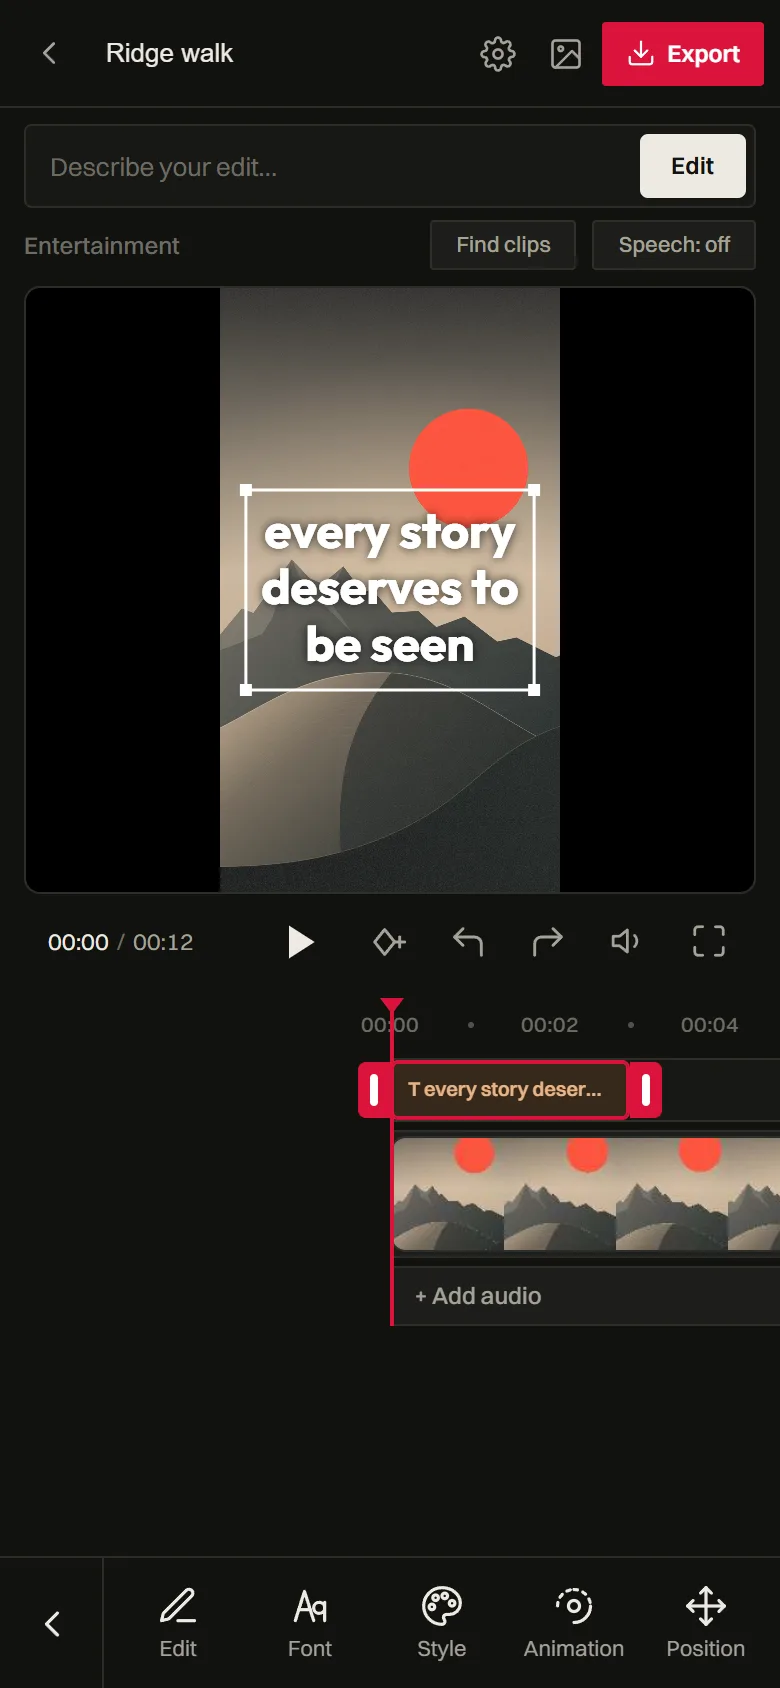
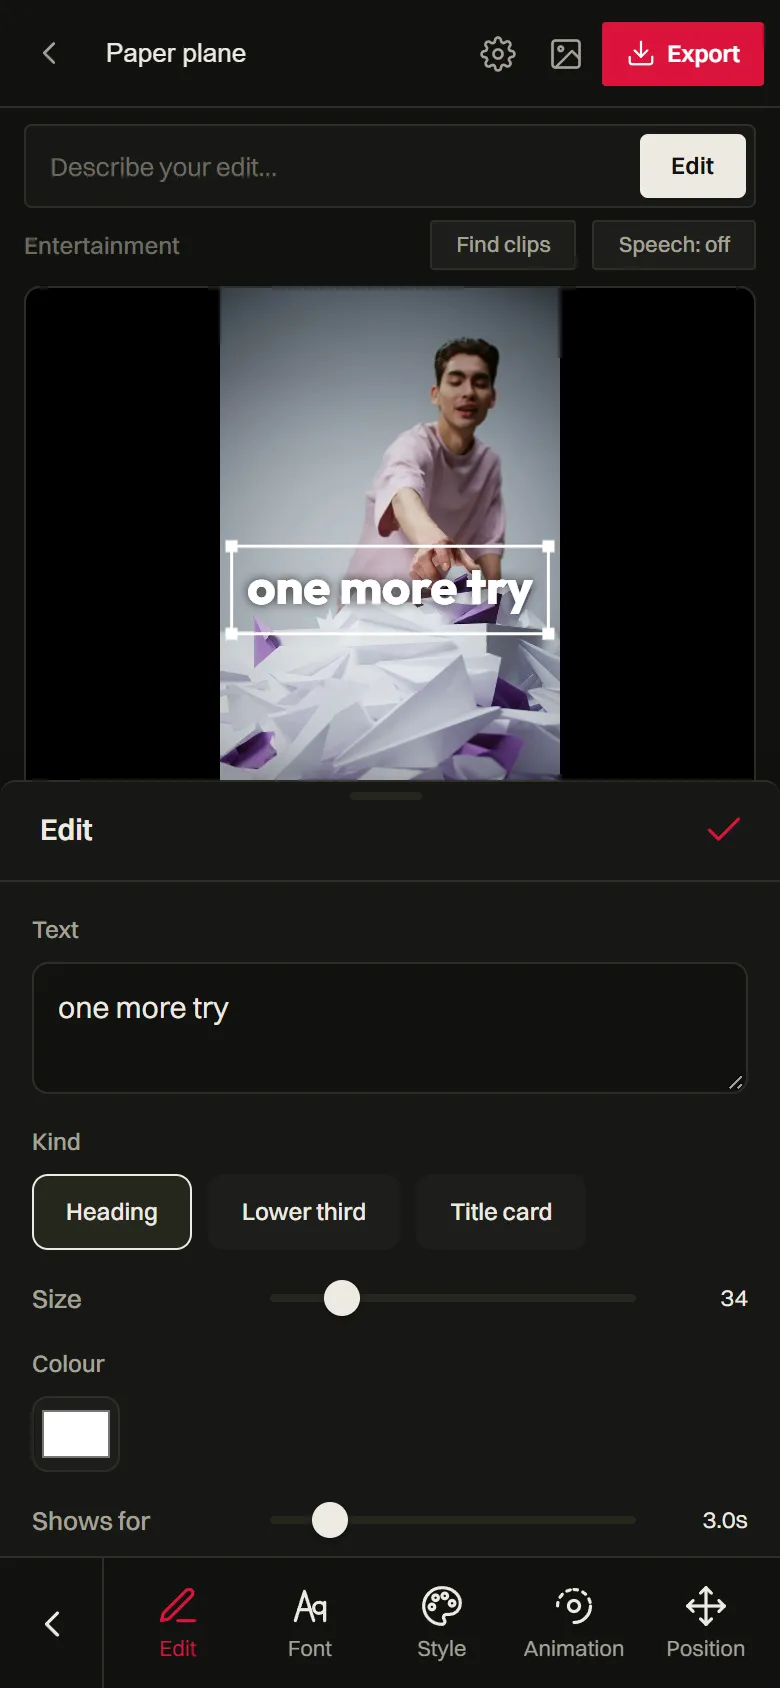
vClyps 0.70.1: editor screenshot with real footage

diff --git a/version.js b/version.js
@@ -60,9 +60,9 @@
 (function (global) {
   "use strict";
 
-  var VERSION = "0.70.0";
+  var VERSION = "0.70.1";
   var RELEASED = "2026-11-01";
-  var NOTES = "New: the home page is back to the design with the wall of videos streaming down the side, now with real footage: 15 everyday shorts (skating, cooking, a puppy, surfing, a gig, painting and more) that play while they are on screen, a show whose timeline is made of one real shoot (folding a paper plane, a miss, one more try, made it), and a finished short that plays in the phone with captions in time with its cuts. All free stock, edited for one look: graded, steadied, cropped to 9:16 and looped without a seam. Removed: Really, and the line about where your footage stays. 0.69.1: Fix: the home page no longer has the privacy statement, and the question is now Is it free? (no really). 0.69.0: New: the home page, designed by our design lead and rebuilt to that design. A calm pale blue page with one clear offer (Free. You shoot. vClyps edits.) and two buttons, then a show you scroll through: the pieces of one shoot (Fold, Miss, Again, Made it, the pauses, an um and a like) land on a timeline, the pauses and filler words are cut, the playhead finds the rhythm, the edit becomes one short, and the short joins a field of stories. Then what you keep (every cut is yours, 1080p at up to 60 fps, no watermark), where your footage stays, four questions and one last button. The examples are clearly marked type-only samples until real footage is shot. With reduced motion it is one finished picture. 0.68.0: New: the home page is an experience. The offer comes first, as on Prime Video: what vClyps does, Free in bold, and big buttons (Choose your footage, Watch it edit first), beside a moving wall of finished shorts. Then, as you scroll, the edit plays out: raw clips, spoken words, a voice and a song fly onto a timeline, the playhead runs, the dull parts and filler words drop out, the timeline folds into a phone playing the finished short, and that becomes a wall of shorts. With reduced motion it is one still picture. 0.67.0: New: the home page, rebuilt from research into the best-converting video tools. It is light, and you can start right from it: Choose your footage (or drop videos on it) opens the editor with them already on the timeline; if a project is open, they are added to it and nothing is lost. It answers the common questions (is it free, where your footage goes, will the edit look robotic, what you can edit, phones) and says plainly that your footage stays on your device. 0.66.1: Fix: on a computer the timeline no longer leaves its left half empty. As in CapCut's desktop editor it starts at the left edge and the playhead moves along it: click the ruler or any empty part of the timeline to move the playhead there, the scroll wheel looks along the edit without moving it, zooming keeps it where it is, and while it plays the view turns the page. Phones and tablets keep the playhead in the middle. 0.66.0: New: a new home page. It says what vClyps does in one line, shows the real editor (a screenshot, not an illustration), then how it works, what is in the editor and the privacy line, with one Start editing button. The 3D film ribbon, scroll animations, film grain, the button that followed the pointer and the shutter between screens are gone, so the page opens instantly and is lighter to download. 0.65.0: New: 59 sound effects (was 20), every one a real recording released free for any use (CC0): boing, bonk, slide whistle, punch, slap, glass break, explosion, thunder, heartbeat, ticking, alarm, phone buzz, message ping, typing, mouse click, typewriter, door knock and creak, footsteps, crowd cheer, boo, aww and ooh, swipe, bubbles, splash, wind, rain, birdsong, rewind, glitch, level up, success, error, dog bark, ta-da, car horn, bell and a soft swoosh. The sound sheet has CapCut's group tabs (Transitions, Impacts, Cartoon, Crowd, Game and phone, Everyday, Nature), and a sound downloads only when it is first used. 0.64.0: New: overlays stack in layers, as in CapCut: several videos and photos can be on screen at once, each on its own lane in the timeline (Arrange has Layer). And Collage, after Overlay: pick a layout (two side by side, two stacked, one big and two small, 2 x 2, diagonal), choose 2 to 4 videos or photos, set Border and Rounded, and each one lands in its cell as an ordinary overlay you can still adjust. 0.63.0: New: British voices for Text to speech: Emma, Isabella, George and Fable, read with British pronunciation (no rolled r after vowels, BATH words, schedule, tomato, aluminium, one hundred and five) and British spellings (colour, centre). Pounds are read as pounds (£3.50 is three pounds fifty) for every voice. 0.62.0: New: Remove background, Tap to choose, as CapCut: tap any object (a dog, a car, a product), not only a person, and add or erase points until it is right; vClyps finds it through the clip once (about 10 seconds for each second of video on a computer with good graphics, longer without) and keeps only that thing. Works on clips and overlays, the same in the preview and the export. 0.61.0: New: Smooth slow motion, in Speed when a clip is slowed down, as CapCut's Smooth slow-mo: instead of showing each frame twice, vClyps makes new frames in between (blended from the real ones around each moment) and stretches the sound without changing its pitch, so slow motion glides. Made once on your device; Off brings the original back. 0.60.0: New: many more text animations (67 in, 54 out, 41 loop: swooshes with motion blur, mask reveals, typewriters, letter-by-letter grow, flip, swing and bounce, neon flicker, spiral, slam and more) and 80 text templates (was 40): chapter titles, editorial lower thirds, subscribe and follow cards, quote cards, step and stat cards, prices, offers, promo codes and coming soon. Every template now fits inside the safe area of a 9:16 video (30 older ones were too wide and are now resized). 0.59.0: New: Auto reframe, beside Stabilize in a video clip's tools as in CapCut. Landscape video in a 9:16 (or square) edit no longer sits still: the frame follows the person's face, or the action when there is no face, with a calm, smooth pan. AI edits do this by themselves for wide clips, from the motion already measured. 0.58.0: New: Auto lyrics, in Text next to Captions and in a song's tools as in CapCut: add your song (Audio, Your audio), tap Auto lyrics, and its words appear as captions timed to the singing, in your caption style. Made on your device with the same model as Captions; fix any misheard word in Captions. 0.57.0: New: Enhance voice, next to Reduce noise on a video or audio clip as in CapCut: one tap makes speech clearer and fuller (rumble and boxiness out, words brought forward, loud and quiet evened out), with a Strength slider. It works with any voice effect, and the preview and export sound the same. AI edits turn it on gently for clips with speech. 0.56.0: New: the word on a button sticker is yours. Select Subscribe, Follow, Like, Sale, Live, Watch or any other word sticker, open Sticker, and type in Words: the button grows to fit. 0.55.0: New: 40 more sticker shapes (65 in all): double, elbow and sketched arrows, highlight swipes, scribble circles and boxes, sharp, round and shout speech bubbles, callouts, Sale, Live, Share, Save, Comment and Watch tags, a price tag, star ratings from one to five, frames and brackets. And 7 more voice effects (23 in all): Giant, Baby, Higher, Lower, Walkie-talkie, Stadium and Bathroom, each with its own drawing. 0.54.0: New: Position for a clip, in its tools after Canvas: move it across and down, zoom it and turn it. Each works with the keyframe diamond, so a slow push in or a drift across the frame is two taps and a slider. The same in the preview and the export. 0.53.0: New: the AI uses video effects. When a moment earns it, an AI edit adds up to two short effects (impact or a freeze flash on a punchline, speed lines on action, film grain on a memory, a light leak on a golden moment, confetti on a celebration), never on the hook and never in a serious video. They sit on the effects lane like your own, and a new AI edit replaces only its own. 0.52.0: New: 100 video effects (was 38) and 80 transitions (was 57). New effect groups Lens (bulge, tilt shift, lens flare, kaleidoscope...), Light (sun rays, neon flicker, prism, stage lights...), Motion (zoom blur, motion echo, speed lines, impact...) and Party (disco lights, balloons, hearts, streamers, fireworks...), plus more Retro, Glitch and Frame looks (polaroid, film strip, countdown, viewfinder). All drawn on your device, the same in the preview and the export. 0.51.3: Fixes: voice effects on a voiceover or text to speech play in both ears; voice effects no longer leave work running after you change them; a caption no longer hangs over the next clip; a text with a wipe in and a wipe out shows both; text to speech reads money and decimals properly ($1,500, $3.50) and retries a failed voice download; removing a vocabulary word restores the timing; retouch keeps two faces apart; cutout and retouch retry after a failed download; remove background stays steady on sped-up clips; late sound effects are never dropped from a fast export. Look: each voice effect has its own drawing and each text-to-speech voice its own monogram; the empty editor says what to add. 0.51.2: Fixes: a new project no longer reuses the last project's cleaned sound, cutouts or face points; a split or trimmed overlay plays the right part of its video; keyframes and tracking follow a trim, split or speed change; an overlay that moves can be grabbed where you see it; Reduce noise cleans once when you let go of Strength (and frees the old one); an audio clip that starts later plays its cleaned sound; Chroma key picks the overlay's own colour; blurred text exports the same on a phone and a computer; the export waits for emoji, retouch and cutout before it starts; Text to speech recovers from a failed download with Try again. 0.51.1: Polish: on/off settings are real switches at the edge of their row, and Settings reads as a calm list; the export progress bar and its percentage are plainer; a finished export is marked in green (done), not the brand red; the last decorative gradients are gone. 0.51.0: New look, first pass: every size, colour and corner now comes from one design scale; calmer type with no shouting capitals; one red button per screen, and red elsewhere only means selected; chosen options show a white outline as in CapCut; each slider is one row (name, track, value); sheets have CapCut's scrolling word tabs; New project is a clean list; Settings is shorter; messages are one-line receipts above the tools; timeline tracks share one set of colours. On a computer the editor now has its tools in a column on the left and a much bigger picture. 0.50.1: Fixes: a fast export that could not read a clip's sound now switches to the standard export instead of saving a silent video; Undo after removing a file from your library brings the file back too; a transition between two parts of one recording with an overlay of it no longer loses a frame; Split, Freeze and Reverse keep a speed curve's timing exactly; copies made by Split and Duplicate no longer share one mask; Freeze keeps the clip's filter strength, crop and look; the frame shape (1:1, 16:9) survives a reload; a paused preview shows the exact frame when you scrub; Undo is kept after a crash. 0.50.0: New: templates (first stage). Save as template, at the end of the editor's tool bar, " +
+  var NOTES = "Fix: the home page's picture of the editor now shows real footage (the paper-plane shoot) instead of a drawing. 0.70.0: New: the home page is back to the design with the wall of videos streaming down the side, now with real footage: 15 everyday shorts (skating, cooking, a puppy, surfing, a gig, painting and more) that play while they are on screen, a show whose timeline is made of one real shoot (folding a paper plane, a miss, one more try, made it), and a finished short that plays in the phone with captions in time with its cuts. All free stock, edited for one look: graded, steadied, cropped to 9:16 and looped without a seam. Removed: Really, and the line about where your footage stays. 0.69.1: Fix: the home page no longer has the privacy statement, and the question is now Is it free? (no really). 0.69.0: New: the home page, designed by our design lead and rebuilt to that design. A calm pale blue page with one clear offer (Free. You shoot. vClyps edits.) and two buttons, then a show you scroll through: the pieces of one shoot (Fold, Miss, Again, Made it, the pauses, an um and a like) land on a timeline, the pauses and filler words are cut, the playhead finds the rhythm, the edit becomes one short, and the short joins a field of stories. Then what you keep (every cut is yours, 1080p at up to 60 fps, no watermark), where your footage stays, four questions and one last button. The examples are clearly marked type-only samples until real footage is shot. With reduced motion it is one finished picture. 0.68.0: New: the home page is an experience. The offer comes first, as on Prime Video: what vClyps does, Free in bold, and big buttons (Choose your footage, Watch it edit first), beside a moving wall of finished shorts. Then, as you scroll, the edit plays out: raw clips, spoken words, a voice and a song fly onto a timeline, the playhead runs, the dull parts and filler words drop out, the timeline folds into a phone playing the finished short, and that becomes a wall of shorts. With reduced motion it is one still picture. 0.67.0: New: the home page, rebuilt from research into the best-converting video tools. It is light, and you can start right from it: Choose your footage (or drop videos on it) opens the editor with them already on the timeline; if a project is open, they are added to it and nothing is lost. It answers the common questions (is it free, where your footage goes, will the edit look robotic, what you can edit, phones) and says plainly that your footage stays on your device. 0.66.1: Fix: on a computer the timeline no longer leaves its left half empty. As in CapCut's desktop editor it starts at the left edge and the playhead moves along it: click the ruler or any empty part of the timeline to move the playhead there, the scroll wheel looks along the edit without moving it, zooming keeps it where it is, and while it plays the view turns the page. Phones and tablets keep the playhead in the middle. 0.66.0: New: a new home page. It says what vClyps does in one line, shows the real editor (a screenshot, not an illustration), then how it works, what is in the editor and the privacy line, with one Start editing button. The 3D film ribbon, scroll animations, film grain, the button that followed the pointer and the shutter between screens are gone, so the page opens instantly and is lighter to download. 0.65.0: New: 59 sound effects (was 20), every one a real recording released free for any use (CC0): boing, bonk, slide whistle, punch, slap, glass break, explosion, thunder, heartbeat, ticking, alarm, phone buzz, message ping, typing, mouse click, typewriter, door knock and creak, footsteps, crowd cheer, boo, aww and ooh, swipe, bubbles, splash, wind, rain, birdsong, rewind, glitch, level up, success, error, dog bark, ta-da, car horn, bell and a soft swoosh. The sound sheet has CapCut's group tabs (Transitions, Impacts, Cartoon, Crowd, Game and phone, Everyday, Nature), and a sound downloads only when it is first used. 0.64.0: New: overlays stack in layers, as in CapCut: several videos and photos can be on screen at once, each on its own lane in the timeline (Arrange has Layer). And Collage, after Overlay: pick a layout (two side by side, two stacked, one big and two small, 2 x 2, diagonal), choose 2 to 4 videos or photos, set Border and Rounded, and each one lands in its cell as an ordinary overlay you can still adjust. 0.63.0: New: British voices for Text to speech: Emma, Isabella, George and Fable, read with British pronunciation (no rolled r after vowels, BATH words, schedule, tomato, aluminium, one hundred and five) and British spellings (colour, centre). Pounds are read as pounds (£3.50 is three pounds fifty) for every voice. 0.62.0: New: Remove background, Tap to choose, as CapCut: tap any object (a dog, a car, a product), not only a person, and add or erase points until it is right; vClyps finds it through the clip once (about 10 seconds for each second of video on a computer with good graphics, longer without) and keeps only that thing. Works on clips and overlays, the same in the preview and the export. 0.61.0: New: Smooth slow motion, in Speed when a clip is slowed down, as CapCut's Smooth slow-mo: instead of showing each frame twice, vClyps makes new frames in between (blended from the real ones around each moment) and stretches the sound without changing its pitch, so slow motion glides. Made once on your device; Off brings the original back. 0.60.0: New: many more text animations (67 in, 54 out, 41 loop: swooshes with motion blur, mask reveals, typewriters, letter-by-letter grow, flip, swing and bounce, neon flicker, spiral, slam and more) and 80 text templates (was 40): chapter titles, editorial lower thirds, subscribe and follow cards, quote cards, step and stat cards, prices, offers, promo codes and coming soon. Every template now fits inside the safe area of a 9:16 video (30 older ones were too wide and are now resized). 0.59.0: New: Auto reframe, beside Stabilize in a video clip's tools as in CapCut. Landscape video in a 9:16 (or square) edit no longer sits still: the frame follows the person's face, or the action when there is no face, with a calm, smooth pan. AI edits do this by themselves for wide clips, from the motion already measured. 0.58.0: New: Auto lyrics, in Text next to Captions and in a song's tools as in CapCut: add your song (Audio, Your audio), tap Auto lyrics, and its words appear as captions timed to the singing, in your caption style. Made on your device with the same model as Captions; fix any misheard word in Captions. 0.57.0: New: Enhance voice, next to Reduce noise on a video or audio clip as in CapCut: one tap makes speech clearer and fuller (rumble and boxiness out, words brought forward, loud and quiet evened out), with a Strength slider. It works with any voice effect, and the preview and export sound the same. AI edits turn it on gently for clips with speech. 0.56.0: New: the word on a button sticker is yours. Select Subscribe, Follow, Like, Sale, Live, Watch or any other word sticker, open Sticker, and type in Words: the button grows to fit. 0.55.0: New: 40 more sticker shapes (65 in all): double, elbow and sketched arrows, highlight swipes, scribble circles and boxes, sharp, round and shout speech bubbles, callouts, Sale, Live, Share, Save, Comment and Watch tags, a price tag, star ratings from one to five, frames and brackets. And 7 more voice effects (23 in all): Giant, Baby, Higher, Lower, Walkie-talkie, Stadium and Bathroom, each with its own drawing. 0.54.0: New: Position for a clip, in its tools after Canvas: move it across and down, zoom it and turn it. Each works with the keyframe diamond, so a slow push in or a drift across the frame is two taps and a slider. The same in the preview and the export. 0.53.0: New: the AI uses video effects. When a moment earns it, an AI edit adds up to two short effects (impact or a freeze flash on a punchline, speed lines on action, film grain on a memory, a light leak on a golden moment, confetti on a celebration), never on the hook and never in a serious video. They sit on the effects lane like your own, and a new AI edit replaces only its own. 0.52.0: New: 100 video effects (was 38) and 80 transitions (was 57). New effect groups Lens (bulge, tilt shift, lens flare, kaleidoscope...), Light (sun rays, neon flicker, prism, stage lights...), Motion (zoom blur, motion echo, speed lines, impact...) and Party (disco lights, balloons, hearts, streamers, fireworks...), plus more Retro, Glitch and Frame looks (polaroid, film strip, countdown, viewfinder). All drawn on your device, the same in the preview and the export. 0.51.3: Fixes: voice effects on a voiceover or text to speech play in both ears; voice effects no longer leave work running after you change them; a caption no longer hangs over the next clip; a text with a wipe in and a wipe out shows both; text to speech reads money and decimals properly ($1,500, $3.50) and retries a failed voice download; removing a vocabulary word restores the timing; retouch keeps two faces apart; cutout and retouch retry after a failed download; remove background stays steady on sped-up clips; late sound effects are never dropped from a fast export. Look: each voice effect has its own drawing and each text-to-speech voice its own monogram; the empty editor says what to add. 0.51.2: Fixes: a new project no longer reuses the last project's cleaned sound, cutouts or face points; a split or trimmed overlay plays the right part of its video; keyframes and tracking follow a trim, split or speed change; an overlay that moves can be grabbed where you see it; Reduce noise cleans once when you let go of Strength (and frees the old one); an audio clip that starts later plays its cleaned sound; Chroma key picks the overlay's own colour; blurred text exports the same on a phone and a computer; the export waits for emoji, retouch and cutout before it starts; Text to speech recovers from a failed download with Try again. 0.51.1: Polish: on/off settings are real switches at the edge of their row, and Settings reads as a calm list; the export progress bar and its percentage are plainer; a finished export is marked in green (done), not the brand red; the last decorative gradients are gone. 0.51.0: New look, first pass: every size, colour and corner now comes from one design scale; calmer type with no shouting capitals; one red button per screen, and red elsewhere only means selected; chosen options show a white outline as in CapCut; each slider is one row (name, track, value); sheets have CapCut's scrolling word tabs; New project is a clean list; Settings is shorter; messages are one-line receipts above the tools; timeline tracks share one set of colours. On a computer the editor now has its tools in a column on the left and a much bigger picture. 0.50.1: Fixes: a fast export that could not read a clip's sound now switches to the standard export instead of saving a silent video; Undo after removing a file from your library brings the file back too; a transition between two parts of one recording with an overlay of it no longer loses a frame; Split, Freeze and Reverse keep a speed curve's timing exactly; copies made by Split and Duplicate no longer share one mask; Freeze keeps the clip's filter strength, crop and look; the frame shape (1:1, 16:9) survives a reload; a paused preview shows the exact frame when you scrub; Undo is kept after a crash. 0.50.0: New: templates (first stage). Save as template, at the end of the editor's tool bar, " +
               "keeps your edit's cuts, looks, transitions, texts, stickers, effects, sounds and library " +
               "music (never your footage) on this device and as a file to share. On New project, From a " +
               "template lists them (or opens a shared file): choose your own videos and photos and the " +
